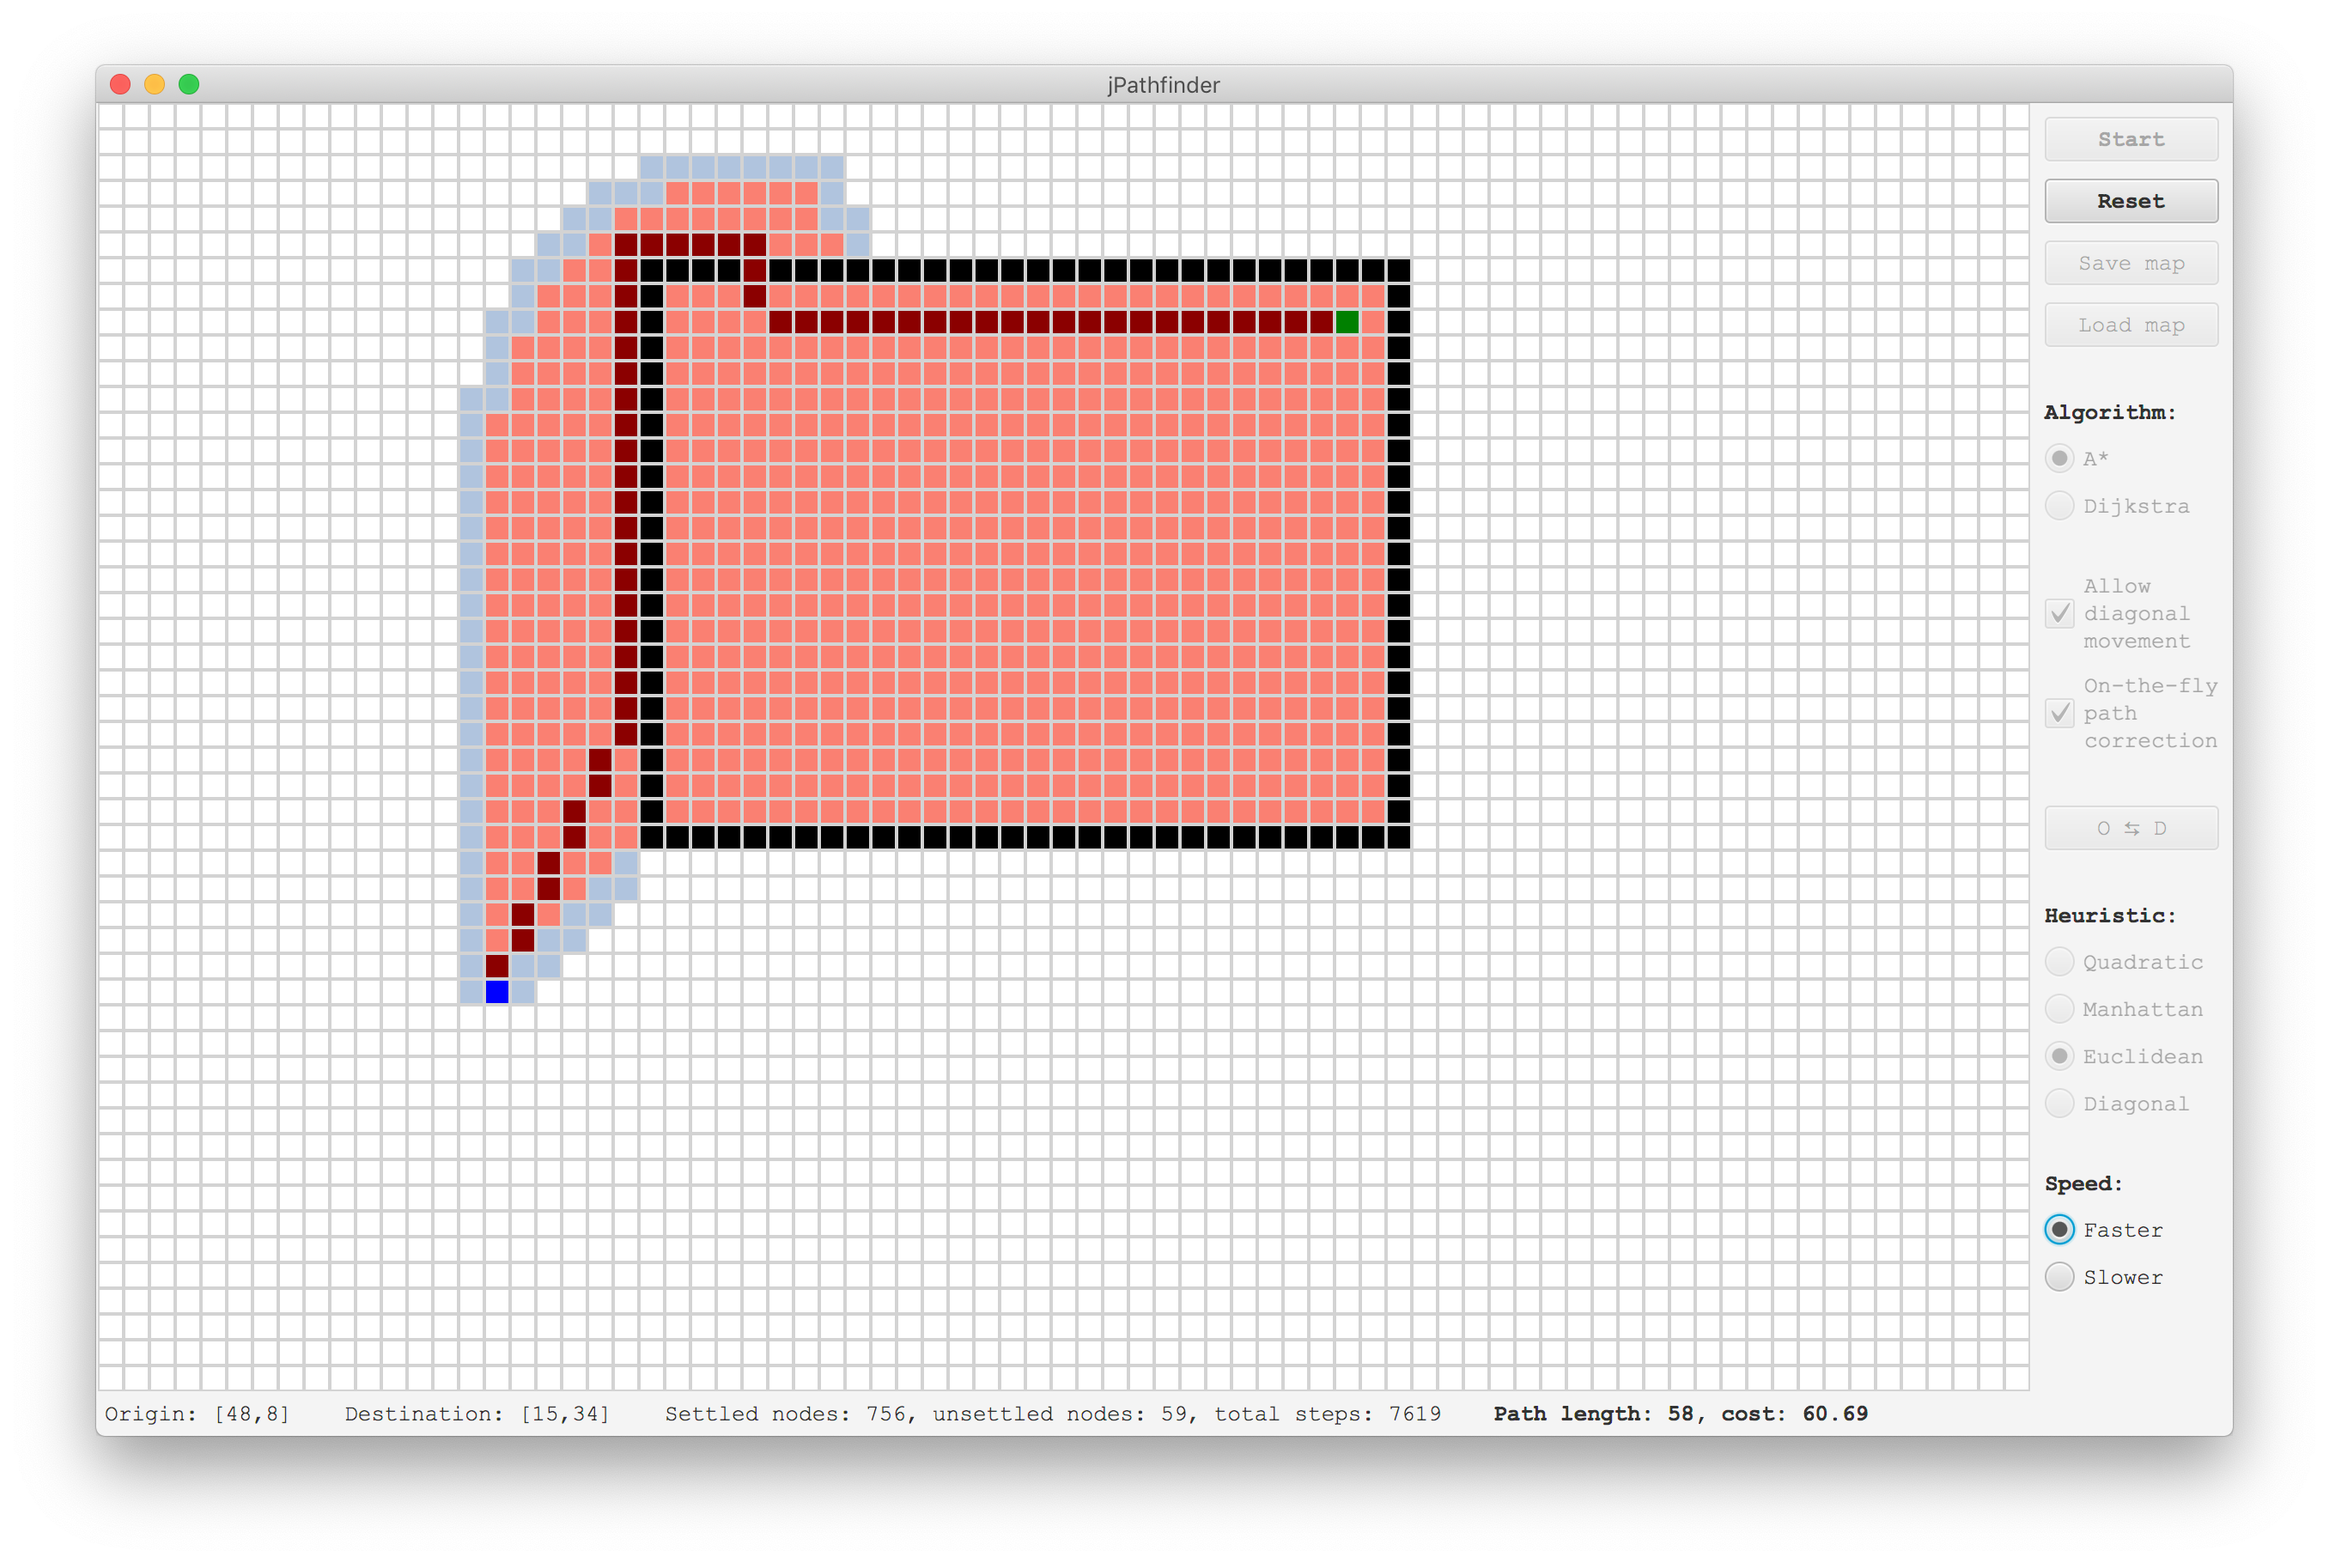
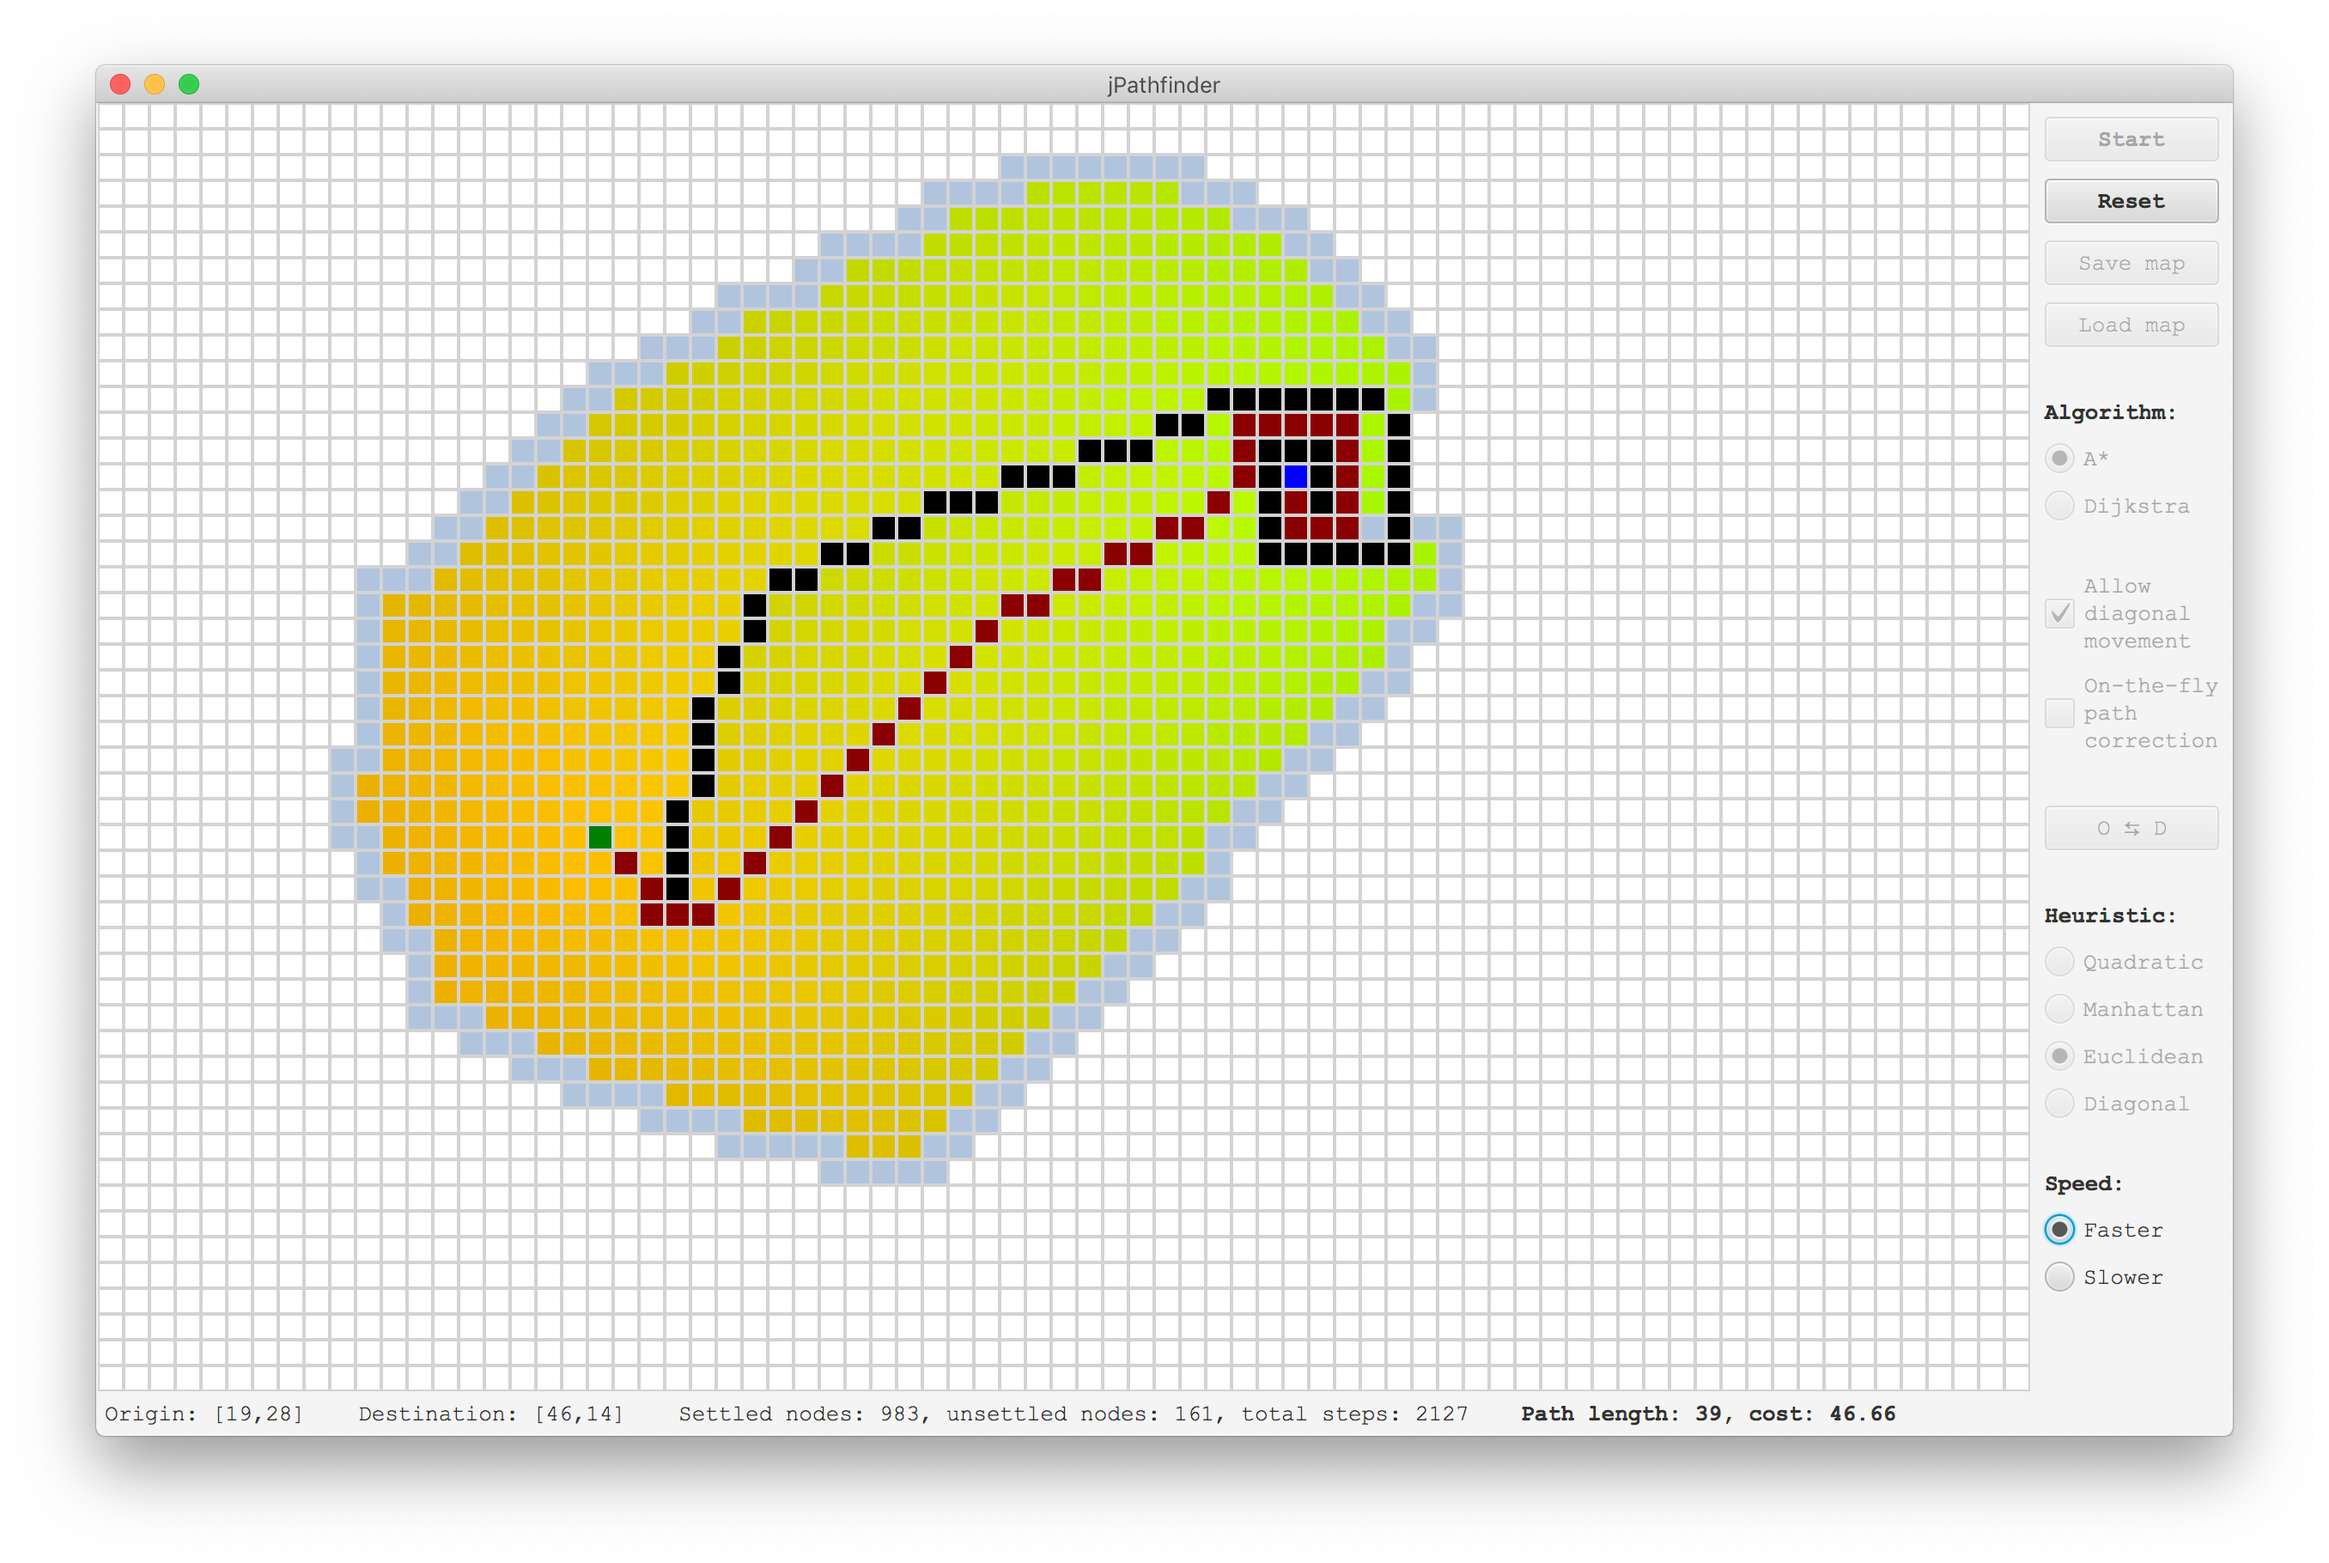
The colour of settled nodes reflects their G- and H-costs.

diff --git a/src/com/pavelurusov/pathfinder/Pathfinder.java b/src/com/pavelurusov/pathfinder/Pathfinder.java
@@ -485,10 +485,16 @@ public class Pathfinder extends Application {
 
     private void visualize() {
         board.clearGrid();
-
         // draw settled nodes
         for (Node n : settledNodes) {
-            board.setCellColor(n.getY(), n.getX(), Color.SALMON);
+            // simple colour visualisation -- to be improved
+            double colorRed = Math.abs((125 - n.getGCost()) / 125);
+            double colorGreen = Math.abs((125 - n.getHCost()) / 125);
+            if (heuristic == Heuristic.Quadratic) {
+                colorRed = Math.abs((125 - n.getGCost()) / 125);
+                colorGreen = Math.abs((8125 - n.getHCost()) / 8125);
+            }
+            board.setCellColor(n.getY(), n.getX(), colorRed, colorGreen, 0);
         }
         // draw unsettled nodes
         for (Node n : unsettledNodes) {

diff --git a/README.md b/README.md
@@ -35,7 +35,7 @@ I have also included some sample maps that showcase the difference between the t
 
 ## Legend
 
-Pink squares represent settled nodes, pale blue squares represent unsettled nodes, dark red squares represent the path (if it exists), and the fuchsia square is the current node.
+Pale blue squares represent unsettled nodes, dark red squares represent the path (if it exists), and the fuchsia square is the current node. The colour of the settled nodes represents their cost, with the red component determined by the H-cost and the green component determined by the G-cost (in other words, the closer to the destination, the greener it gets). This colouration is very much preliminary, and I hope to improve it in the future. 
 
 ### License
 
